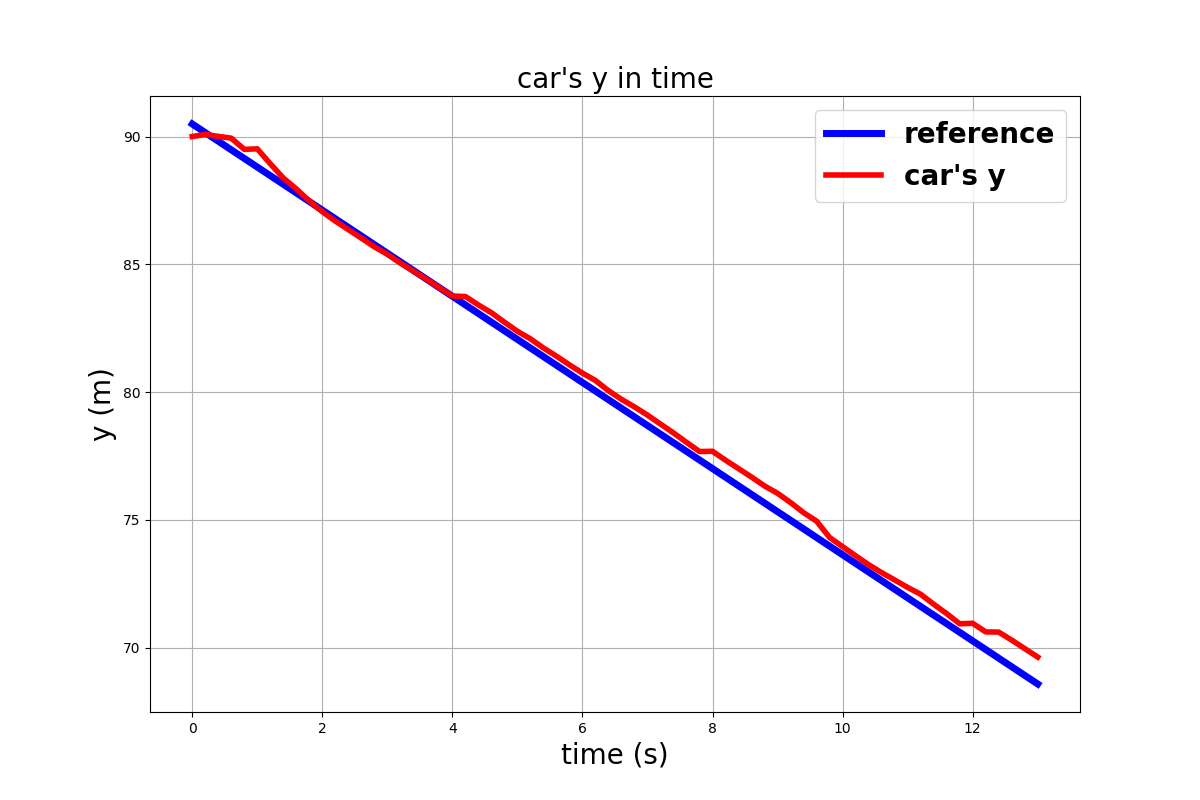
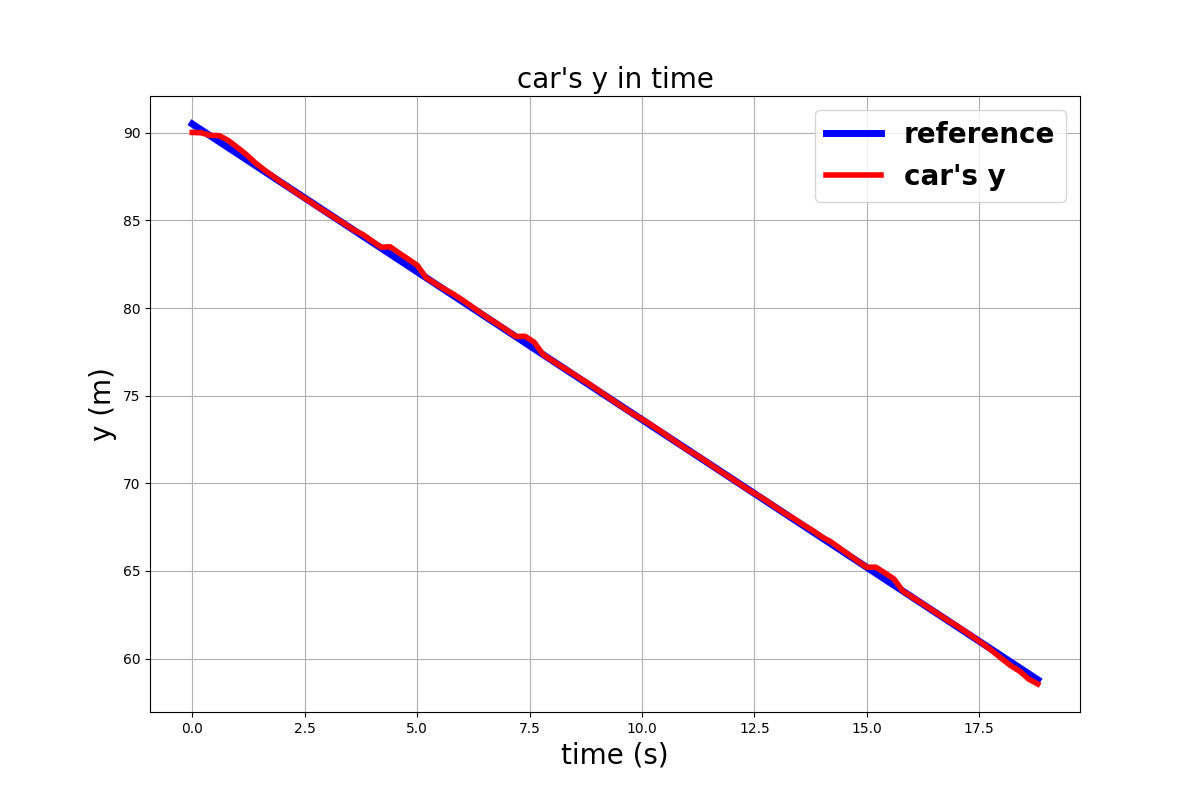
jan26 update

diff --git a/mpc_testing/mcts.py b/mpc_testing/mcts.py
@@ -6,20 +6,20 @@ import numpy as np
 initial_budget = 30  # Example budget
 
 class State:
-    def __init__(self, budget, is_true_state, waypoint_reached, belief, var_particles):
+    def __init__(self, budget, is_true_state, waypoint_reached, belief, del_var_particles):
         self.budget = budget
         self.is_true_state = is_true_state
         self.waypoint_reached = waypoint_reached
         self.belief = belief
         self.comm_cost=1
-        self.var_particles=var_particles
+        self.del_var_particles=del_var_particles
 
     def next_state(self, action):
         if action == "communicate" and self.budget > 0:
             # print(self.budget)
-            return State(self.budget - self.comm_cost, True, self.waypoint_r(), self.belief, self.var_particles)
+            return State(self.budget - self.comm_cost, True, self.waypoint_r(), self.belief, self.del_var_particles)
         
-        return State(self.budget, False, self.waypoint_r(), self.belief, self.var_particles)
+        return State(self.budget, False, self.waypoint_r(), self.belief, self.del_var_particles)
 
     def is_terminal(self):
         # Assuming the game ends when the budget is 0 or waypoint is reached
@@ -36,32 +36,37 @@ class State:
 
 
     def calculate_reward(self, action):
-        uncertainty = np.linalg.norm(self.var_particles)
+        # uncertainty = np.linalg.norm(self.var_particles)
         budget_utilization = (initial_budget - self.budget) / initial_budget
 
         reward = 0
+        reward-=(self.del_var_particles[0]+self.del_var_particles[1])*100
+        if action == "communicate":
+            # print(budget_utilization)
+            reward -= budget_utilization*100
+        
+        # if self.waypoint_r():
+        #     reward += 10  # Reward for reaching the waypoint
+        # else:
+        #     reward -= 0.2  # Penalty for not reaching the waypoint
 
-        if self.waypoint_r():
-            reward += 10  # Reward for reaching the waypoint
-        else:
-            reward -= 0.2  # Penalty for not reaching the waypoint
+# rewrard based on change in uncertainty
+        
 
-        if action == "not_communicate":
-            # The reward depends on the remaining budget and current uncertainty
-            reward += (1 - budget_utilization) * uncertainty *100
-        elif action == "communicate":
-            # Reward/Penalty for communicating based on uncertainty and budget utilization
-            reward -= budget_utilization * uncertainty *100
-
+        # if action == "not_communicate":
+        #     reward -= uncertainty *10
+        # elif action == "communicate":
+        #     reward -= budget_utilization 
 
         return reward
+        # return np.linalg.norm(self.del_var_particles)
 
 
     def simulate(self, action):
         return self.calculate_reward(action)
     
     def clone(self):
-        return State(self.budget, self.is_true_state, self.waypoint_reached, self.belief.copy(), self.var_particles)
+        return State(self.budget, self.is_true_state, self.waypoint_reached, self.belief.copy(), self.del_var_particles)
 
         
 
@@ -75,7 +80,7 @@ class Node:
         self.visits = 0
         self.untried_actions = state.get_possible_actions()
 
-    def ucb_score(self, total_visits, exploration_const=1.41):
+    def ucb_score(self, total_visits, exploration_const=0.2):
         if self.visits == 0:
             return float('inf')
         return self.wins / self.visits + exploration_const * math.sqrt(math.log(total_visits) / self.visits)
@@ -117,7 +122,6 @@ def mcts(root_state, iterations):
         while not state.is_terminal():
             action = random.choice(state.get_possible_actions())
             state = state.next_state(action)
-            # print(f"Budget after action '{action}': {state.budget}")
 
         # Backpropagation
         result = state.simulate(action)

diff --git a/mpc_testing/control.py b/mpc_testing/control.py
@@ -53,6 +53,7 @@ class Car_Dynamics:
         self.x_true=x_0
         self.y_true=y_0
         self.pf_var=np.var(self.pf.particles, axis=0)
+        self.del_var = np.zeros(3)
         self.psi_true=  psi_0
         self.state = np.array([[self.x_true, self.y_true, self.v, self.psi_true]]).T
         self.state_pf = np.array([[self.x, self.y, self.psi]]).T
@@ -66,31 +67,48 @@ class Car_Dynamics:
         psi_dot = self.v*np.tan(delta)/self.L  
         return np.array([[x_dot, y_dot, v_dot, psi_dot]]).T
 
-    def update_state(self, state_dot, obs_x, obs_y, obs_theta):
-        slip= np.random.normal(0, 15*np.pi/180)
-        # self.u_k = command
-        # self.z_k = state
-        # print(state_dot)
-        # print("----"*8)
-
-        # print(f"observed state: {obs_x, obs_y, obs_theta}")
-        
-        self.pf.predict(state_dot[0,0]*self.dt, state_dot[1,0]*self.dt, state_dot[3,0]*self.dt, 0.1,0.1)
-        self.pf.update(np.array([obs_x, obs_y, obs_theta]), 0.001)
-        self.pf.resample()
-        self.pf_var=np.var(self.pf.particles, axis=0)
-
-        # self.pf.estimate()
+    def update_state(self, state_dot, obs_x, obs_y, obs_theta, best_action):
+        slip = np.random.normal(0, 15*np.pi/180)
         self.state=self.state + self.dt*state_dot
-        self.state_pf = self.pf.estimate()
-        # print(f"state_pf: {self.state_pf}")
+        if best_action == "communicate":
+            # print("communicate")
+            # self.state_pf = self.state.copy()
+            self.x = self.state[0,0]
+            self.y = self.state[1,0]
+            self.psi = self.state[3,0]
 
-        # print(f"state: {self.state}")
+            self.pf.particles[:,0] = self.x
+            self.pf.particles[:,1] = self.y
+            self.pf.particles[:,2] = self.psi
+            # print(np.var(self.pf.particles, axis=0))
+        else:
+
+            # self.u_k = command
+            # self.z_k = state
+            # print(state_dot)
+            # print("----"*8)
+
+            # print(f"observed state: {obs_x, obs_y, obs_theta}")
         
-        self.x = self.state_pf[0]
-        self.y = self.state_pf[1]
+            self.pf.predict(state_dot[0,0]*self.dt, state_dot[1,0]*self.dt, state_dot[3,0]*self.dt, 0.1,0.1)
+            self.pf.update(np.array([obs_x, obs_y, obs_theta]), 0.001)
+            self.pf.resample()
+            
+
+            # self.pf.estimate()
+            
+            self.state_pf = self.pf.estimate()
+            # print(f"state_pf: {self.state_pf}")
+            # print(f"state: {self.state}")
+            
+            self.x = self.state_pf[0]
+            self.y = self.state_pf[1]
+            self.psi = self.state_pf[2] + slip
+        # print("hrere")
+        temp = self.pf_var
+        self.pf_var=np.var(self.pf.particles, axis=0)
+        self.del_var = self.pf_var - temp
         self.v = self.state[2,0]
-        self.psi = self.state_pf[2] + slip
         self.x_true = self.state[0,0]
         self.y_true = self.state[1,0]
         self.psi_true = self.state[3,0] +slip

diff --git a/mpc_testing/main_autopark.py b/mpc_testing/main_autopark.py
@@ -16,7 +16,7 @@ def waypoint_reached(car, waypoint):
         return True
     return False
 
-budget = 30
+budget = 50
 comm_counter=0
 
 if __name__ == '__main__':
@@ -97,19 +97,23 @@ if __name__ == '__main__':
     ################################## control ##################################################
     print('driving to destination ...')
     waypoint_reached_var=False
-    state = State(budget, False, waypoint_reached_var, belief=[my_car.x, my_car.y], var_particles=my_car.pf_var)
+    state = State(budget, False, waypoint_reached_var, belief=[my_car.x, my_car.y], del_var_particles=my_car.del_var)
+    # best_action = "not_communicate"
     for i,point in enumerate(final_path):
-        print(f"variance {state.var_particles}")
+        print(f"del variance {state.del_var_particles}")
+        if i ==0:
+            best_action = "not_communicate"
+        else:
+            best_action = mcts(state, iterations=1000)
         
         acc, delta = controller.optimize(my_car, final_path[i:i+MPC_HORIZON])
-        my_car.update_state(my_car.move(acc,  delta), my_car.x, my_car.y, my_car.psi)
+        my_car.update_state(my_car.move(acc,  delta), my_car.x, my_car.y, my_car.psi, best_action)
         # print(f"here: {my_car.x_true, my_car.y_true, my_car.psi_true}")
         # print(acc)
         res = env.render(my_car.x, my_car.y, my_car.psi, delta)
 
         logger.log(point, my_car, acc, delta)
-        print(my_car.x, my_car.y)
-        best_action = mcts(state, iterations=15)
+        # print(my_car.x, my_car.y)
         print("Best action up:", best_action)
         print(f"reward: {state.calculate_reward(best_action)}")
         print("---------------")
@@ -120,14 +124,16 @@ if __name__ == '__main__':
             my_car.psi=my_car.psi_true
             state.budget-=1 
         print(f"communication:{comm_counter}")
-
+        state.belief = [my_car.x, my_car.y]
+        # print(f"belief main {state.belief}")
+        state.del_var_particles = my_car.del_var
+        # print(f"variance2 {state.var_particles}")    
         cv2.imshow('environment', res)
         key = cv2.waitKey(1)
         if key == ord('s'):
             cv2.imwrite('res.png', res*255)
 
-        state.belief = [my_car.x, my_car.y]
-        state.var_particles = my_car.pf_var
+        
         if comm_counter == budget:
             break
 
